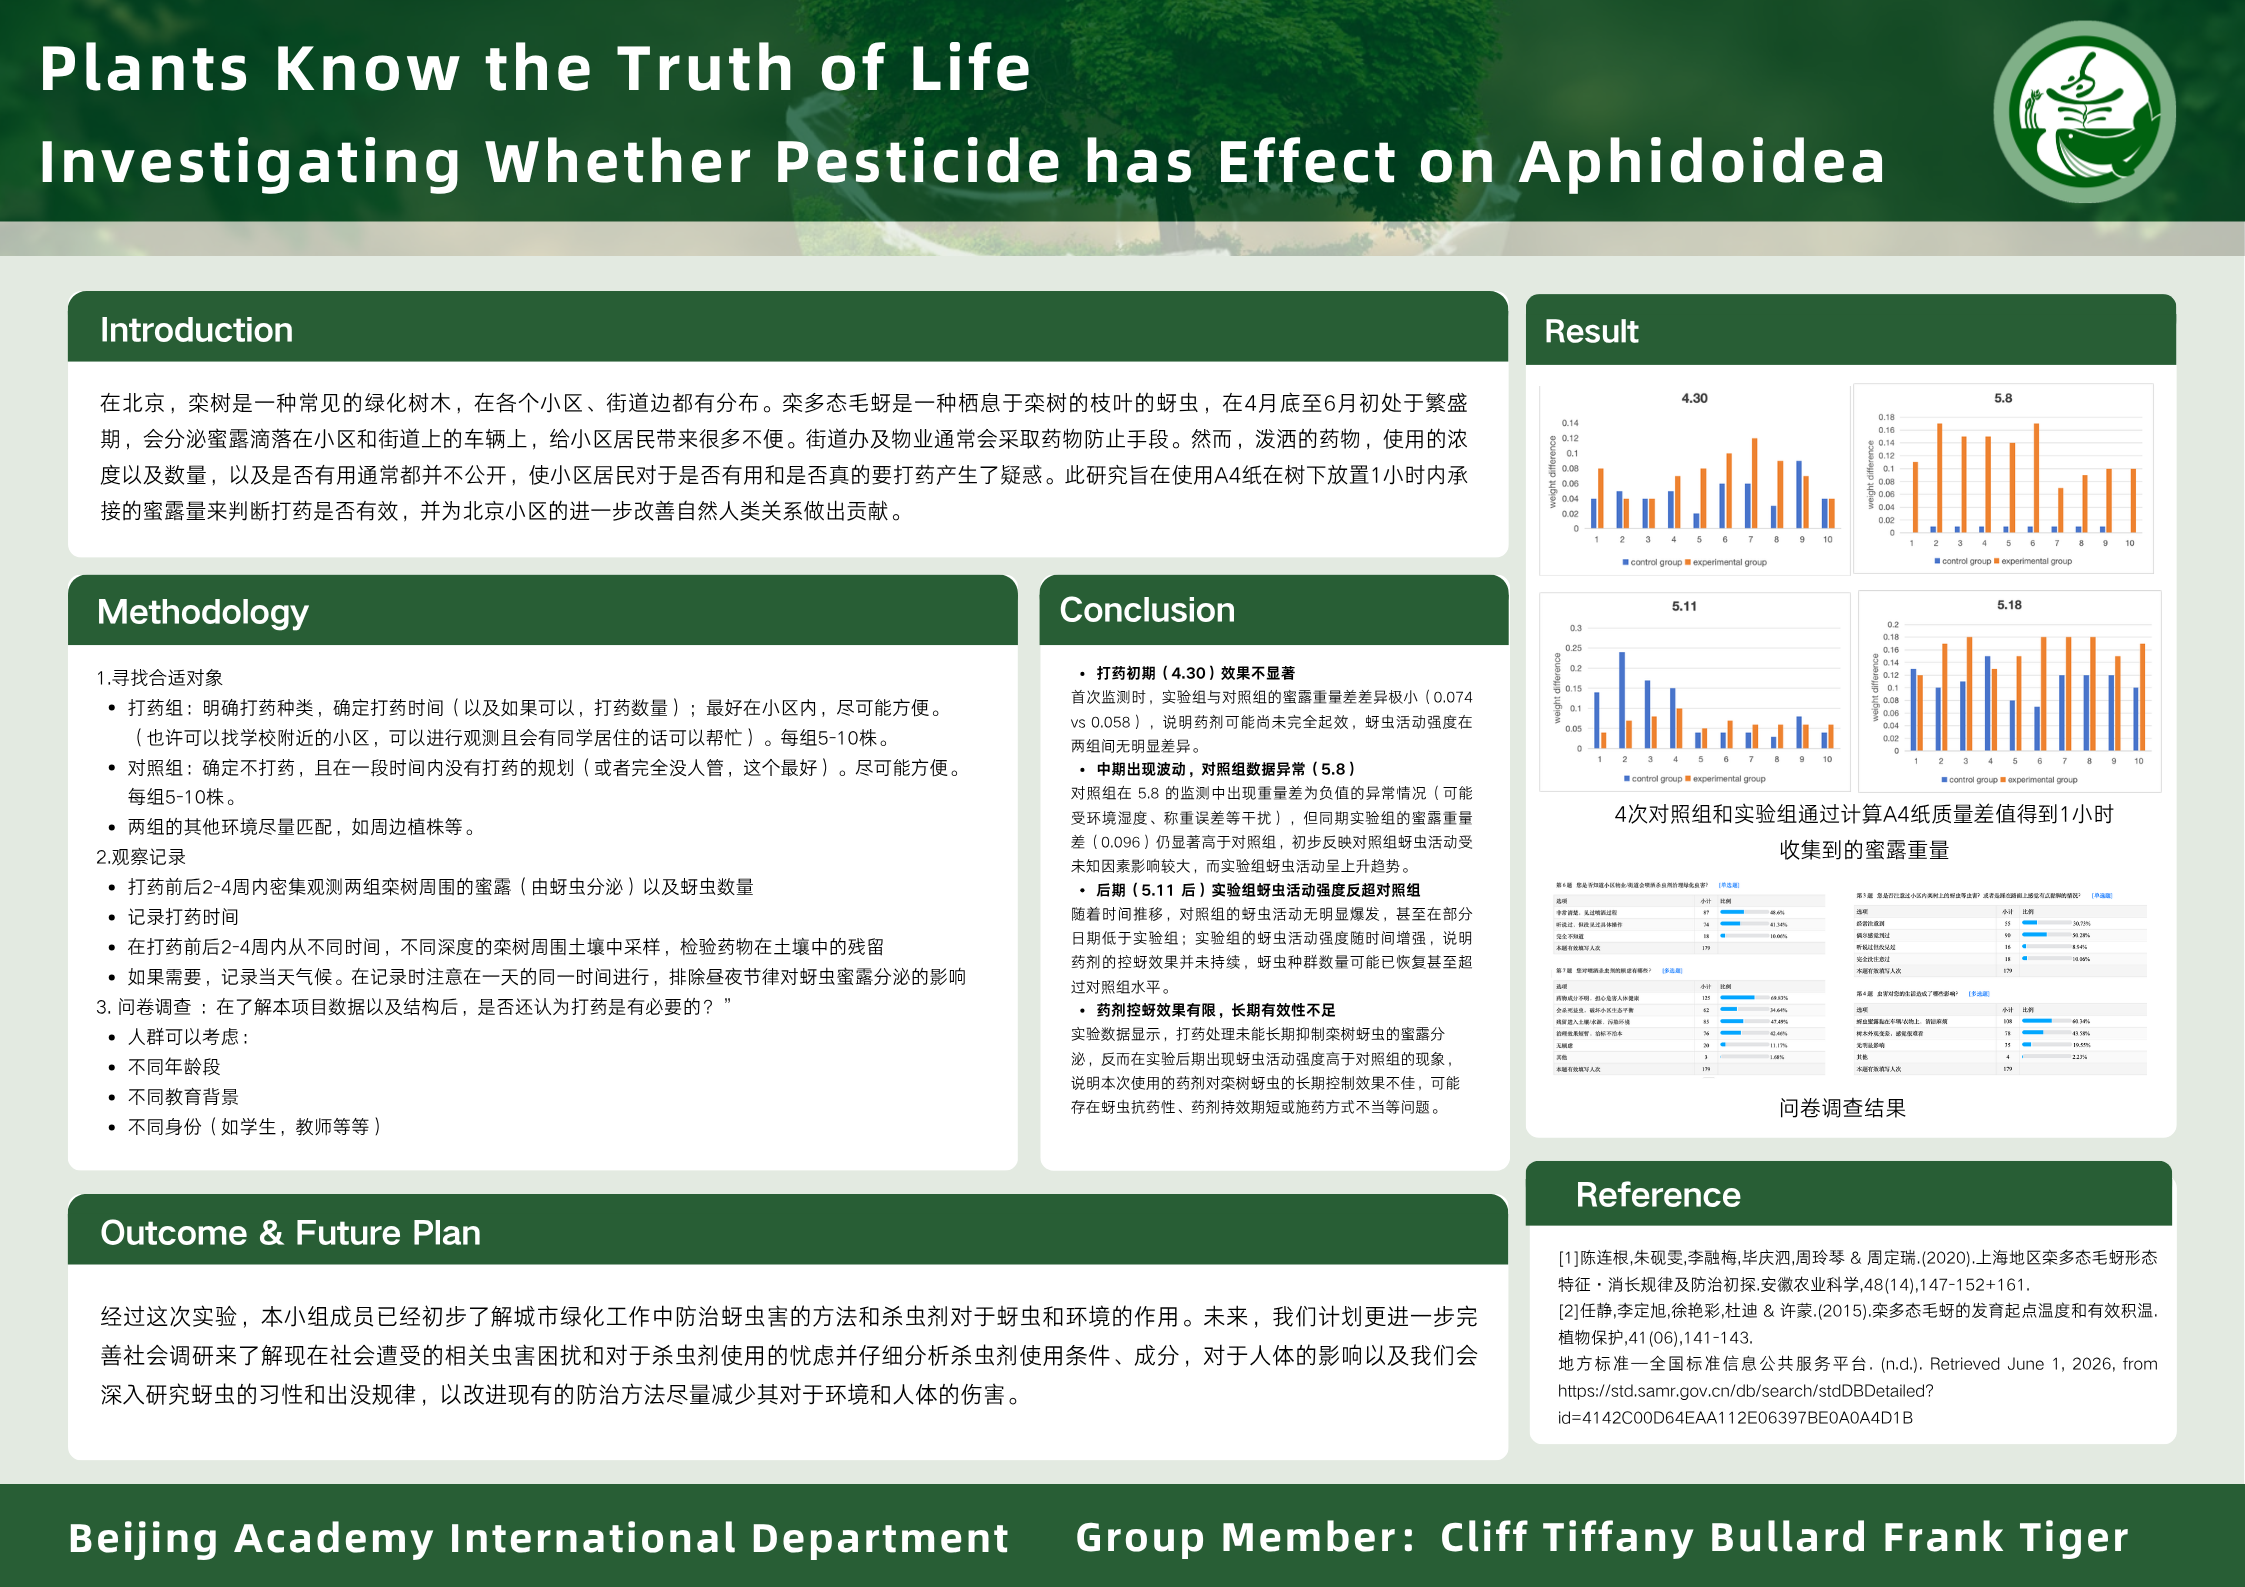
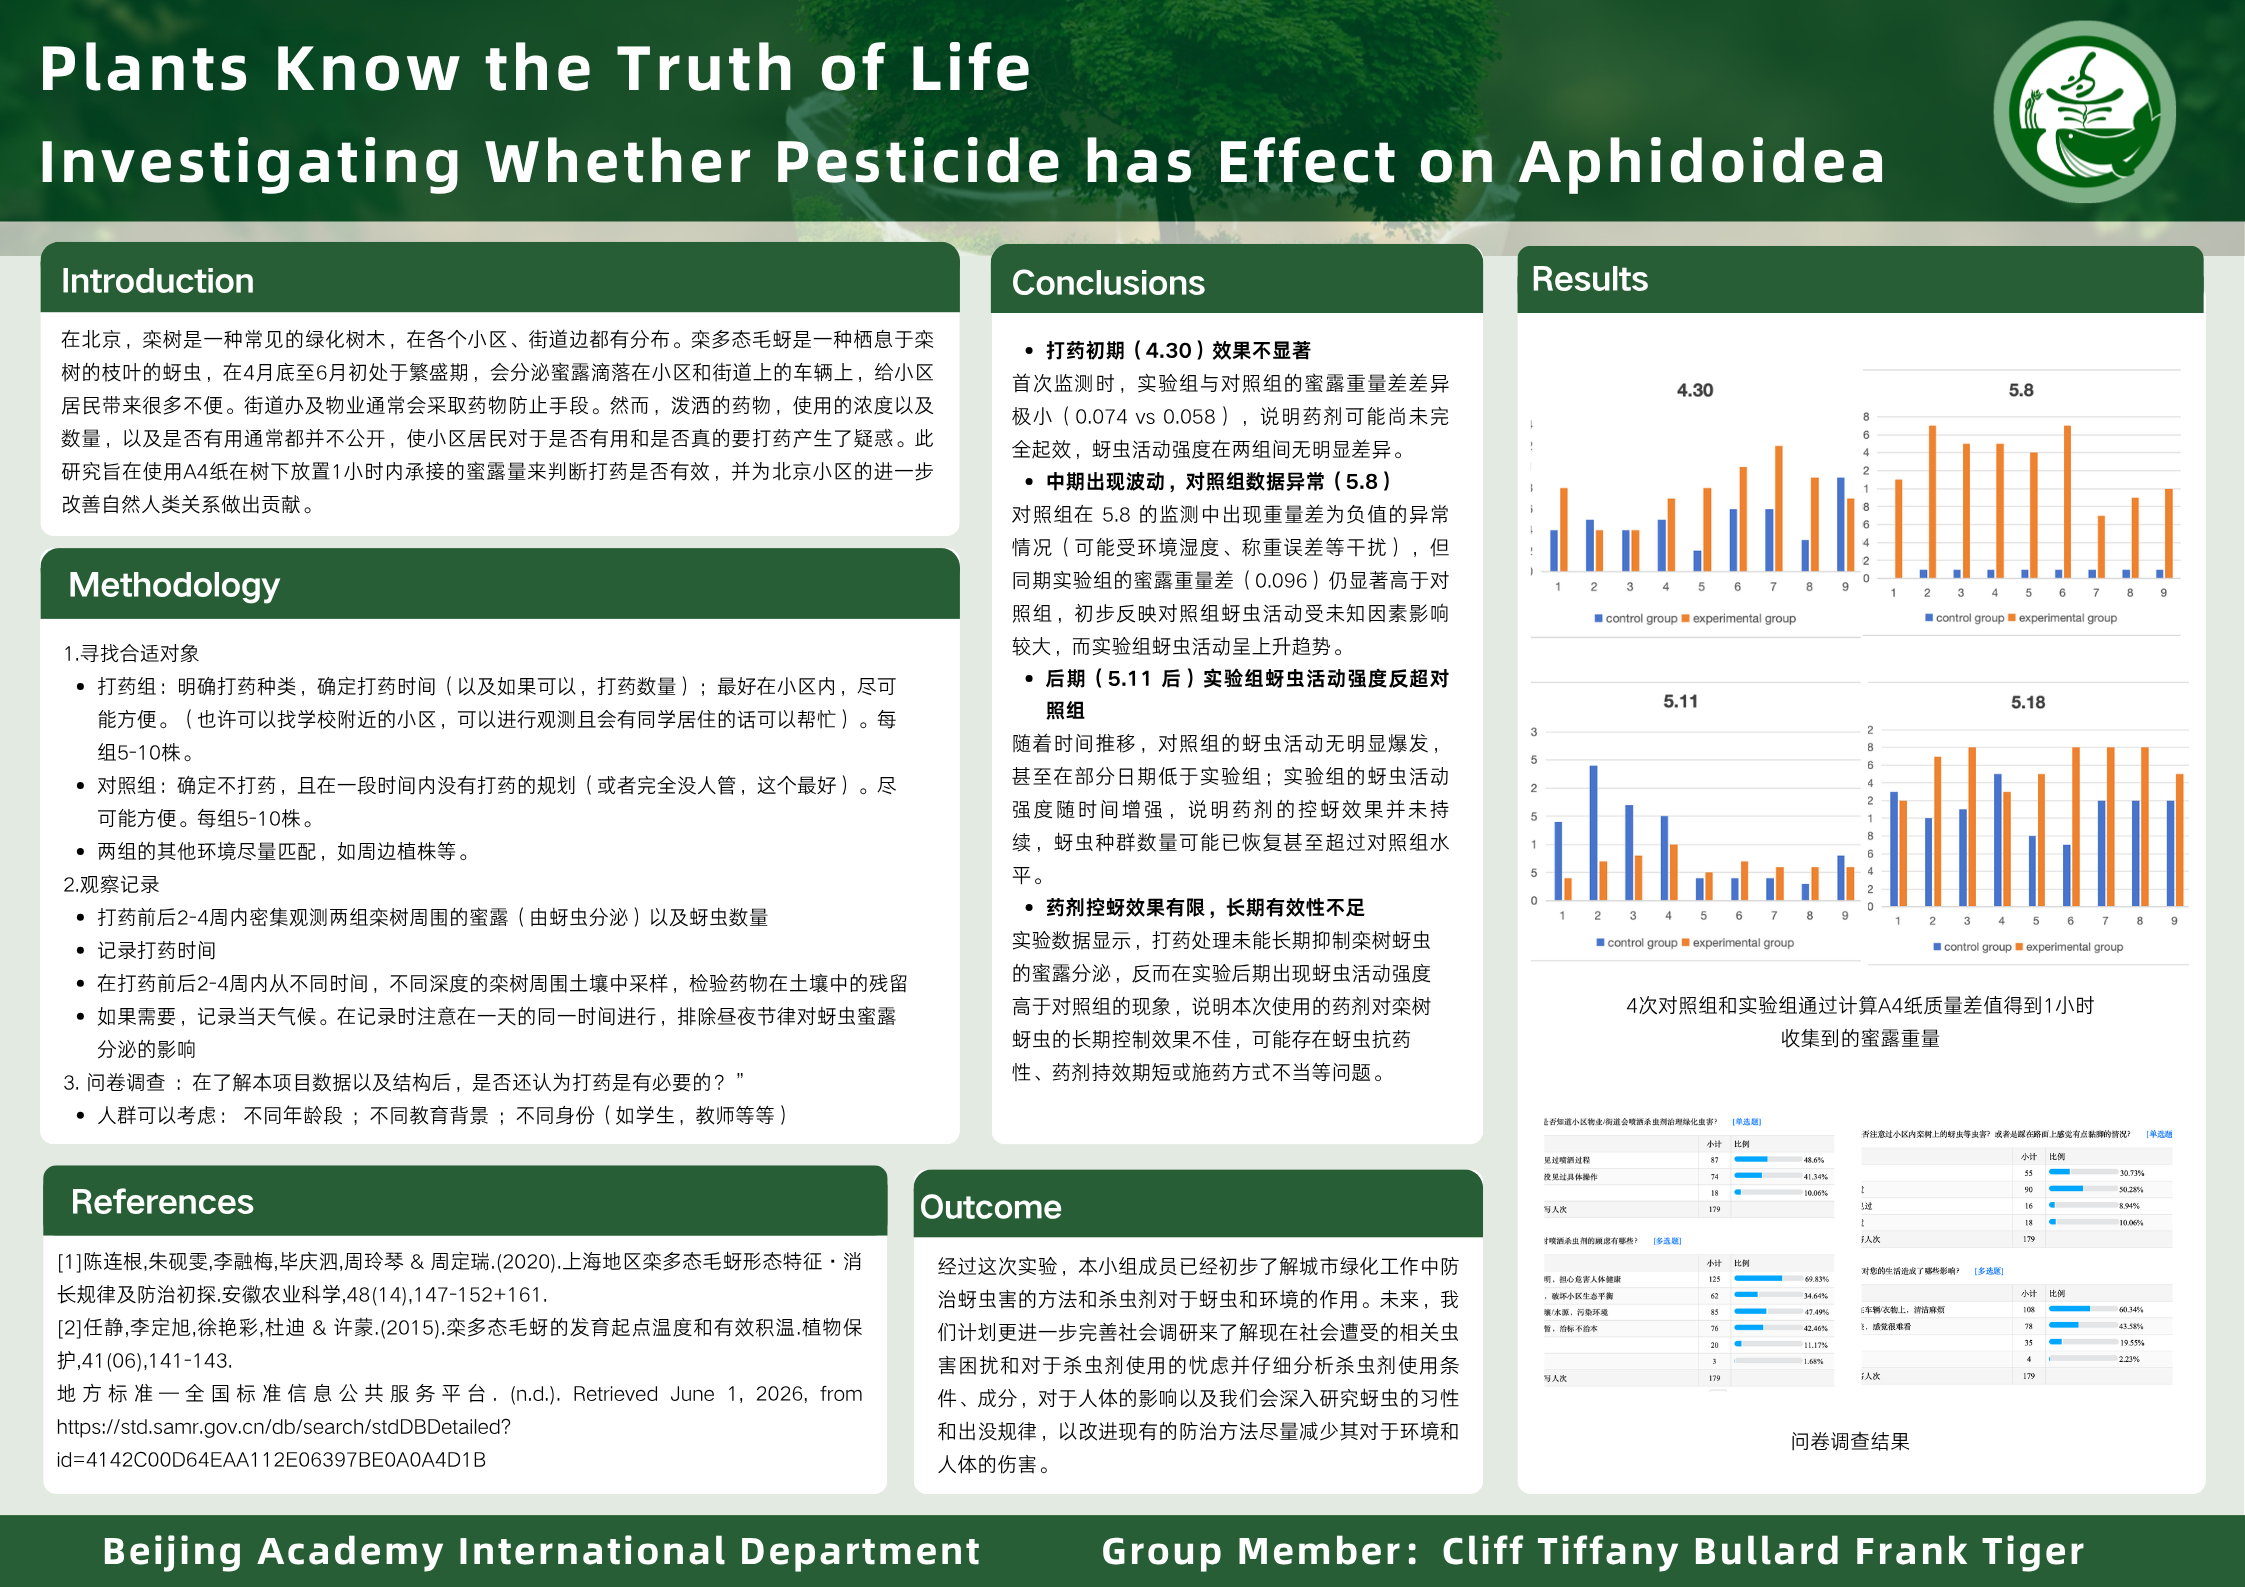
[doc] add new post.

diff --git a/plant/plant.md b/plant/plant.md
@@ -65,13 +65,13 @@ observation of growth patterns, analysis of physiological characteristics, and i
 ![](../assets/img/plant/2026_4.png)
 
 ### Zixun Huang, Luoyao Wang, Jinghan Hu, Yumo Sun, Jitao Ran
-![](../assets/img/plant/2026_5.jpg)
+![](../assets/img/plant/2026_7.png)
 
 ### Ji Qi, Lai Jiang
 ![](../assets/img/plant/2026_6.png)
 
 ### Estelle, Anny, Ruby
-![](../assets/img/plant/2026_7.png)
+![](../assets/img/plant/2026_5.png)
 
 ### 宇宙无敌暴龙战士队（辣椒素小组）：李YF、虞CJ、周ZX、齐J、姜L
 ![](../assets/img/plant/poster_4.jpg)
